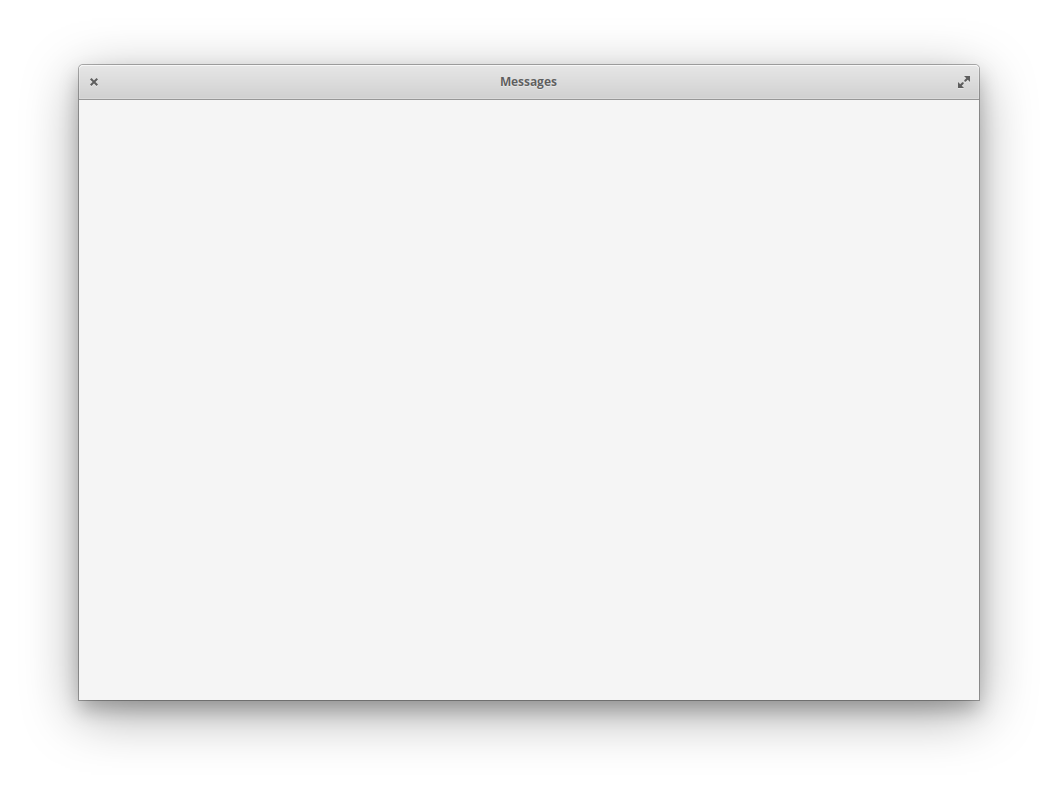
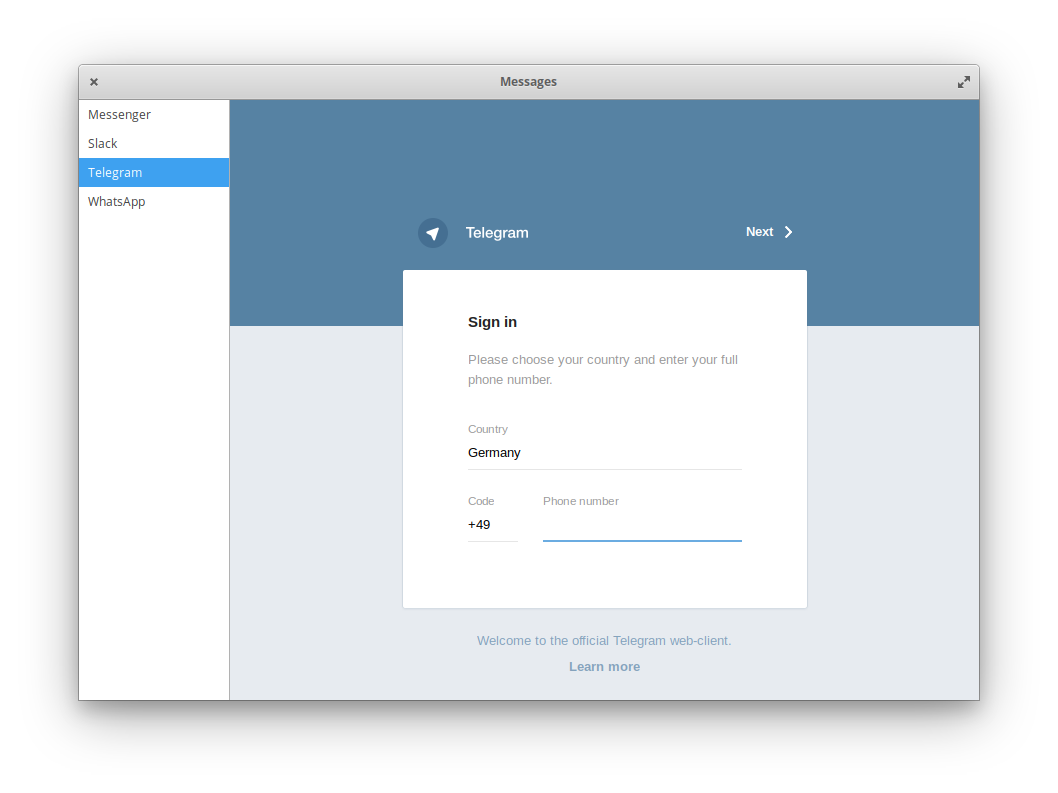
Update screenshot

diff --git a/README.md b/README.md
@@ -17,6 +17,10 @@
   </a>
 </p>
 
+<p align="center">
+  <img src="data/screenshots/000.png">
+</p>
+
 ## Installation
 
 ### Dependencies
